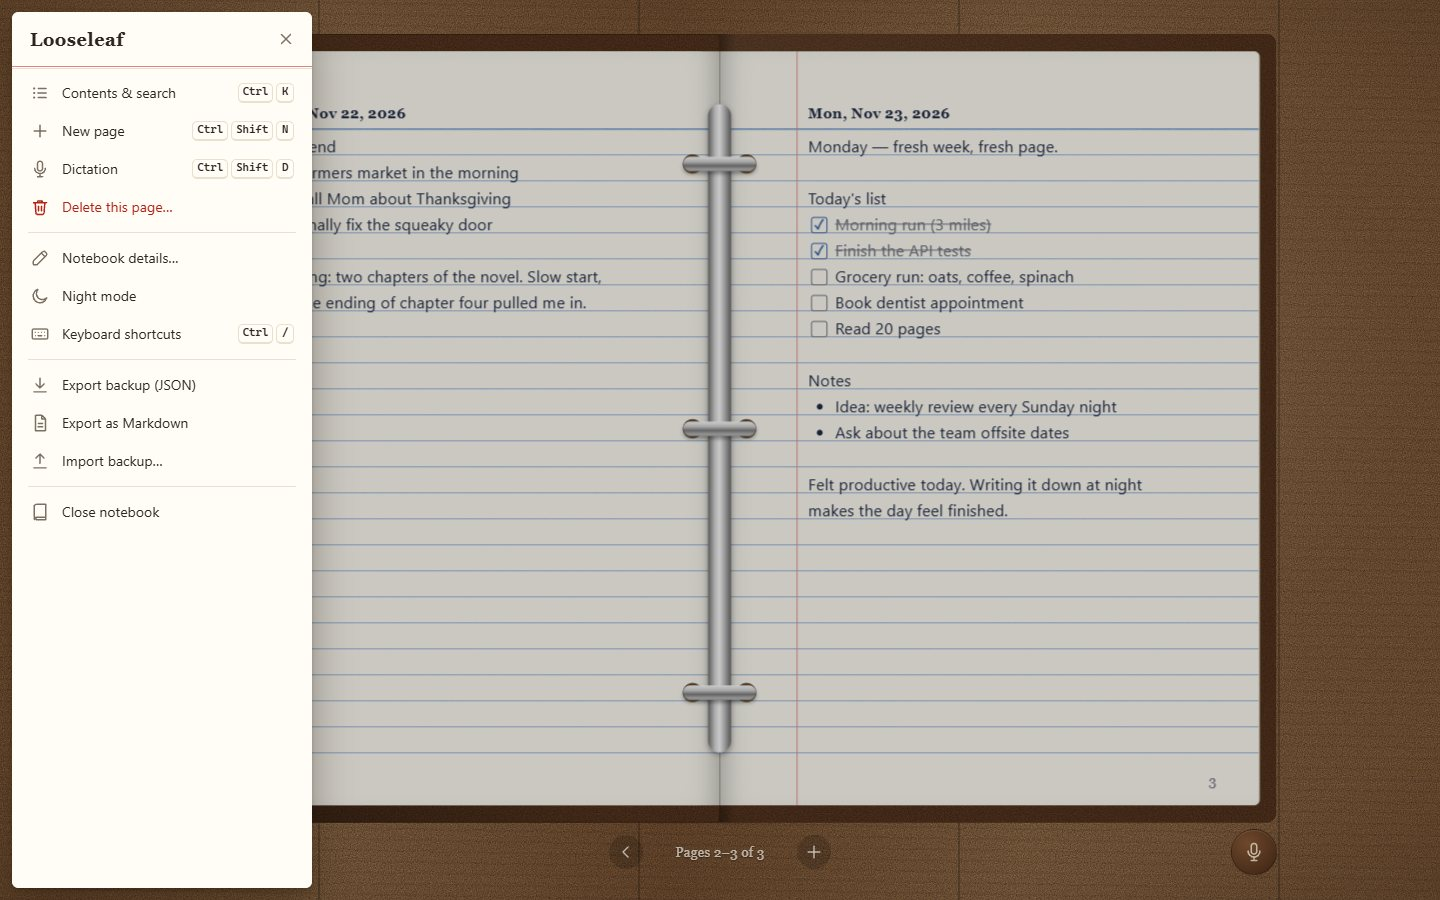
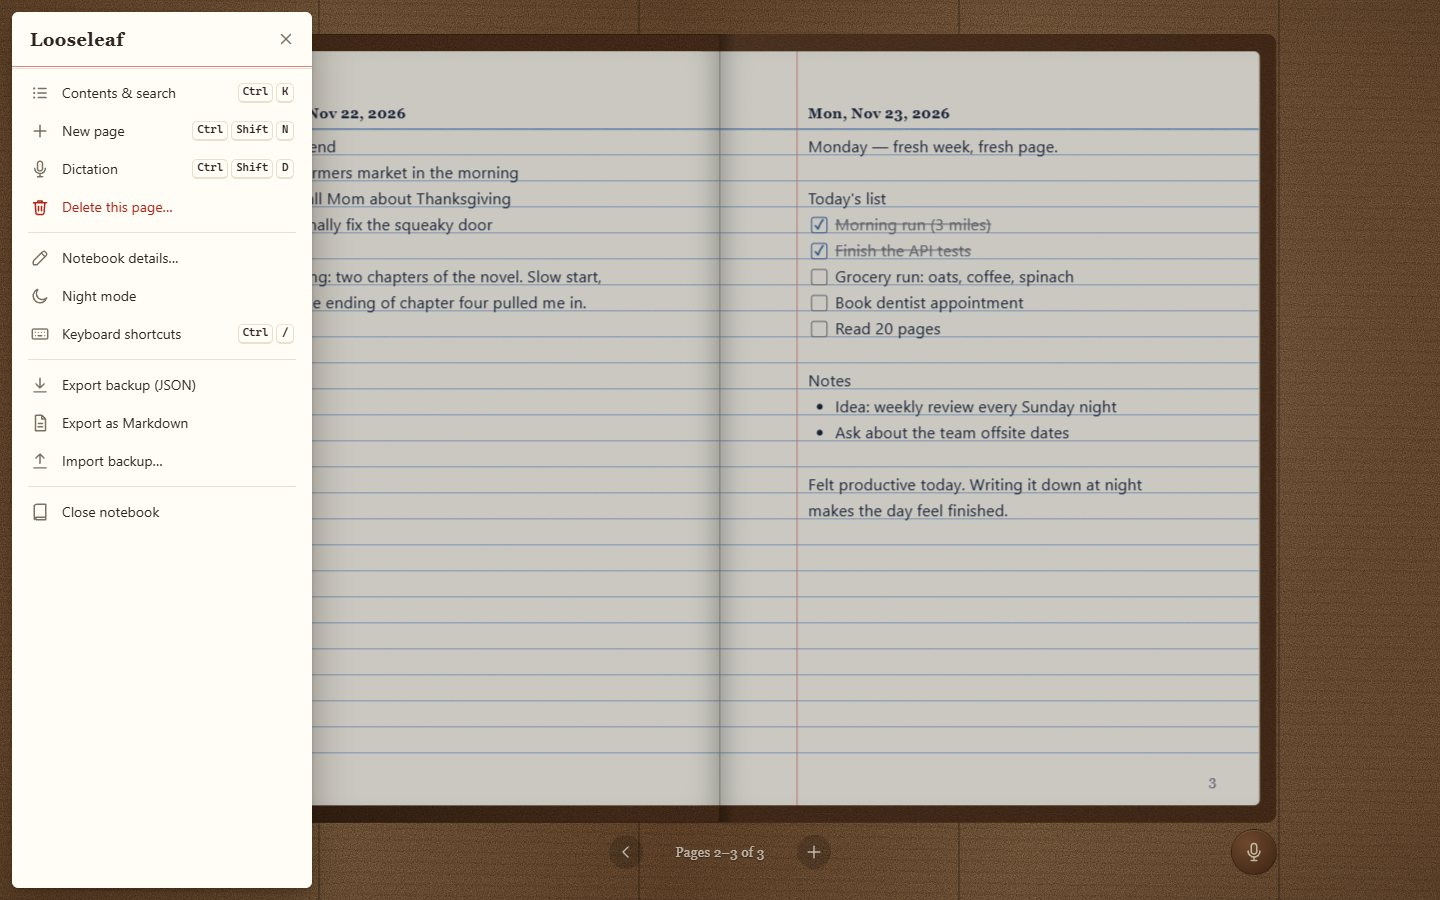
Remove binder rings and punch holes; license to Jay Kim
The metal spine read as bulky between the pages; the spread now meets at a
soft gutter shadow like a bound notebook. Screenshots regenerated.

Changed region(s): [[0.4688, 0.1244, 0.5312, 0.84]]

diff --git a/public/css/book.css b/public/css/book.css
@@ -74,45 +74,6 @@
 .book[data-mode="single"] .slot[data-pos="1"] { display: none; }
 .book[data-mode="double"]:is([data-state="closed"], [data-state="opening"], [data-state="closing"]) .slot[data-pos="0"] { opacity: 0; }
 
-/* ---------- Binder rings ---------- */
-.rings {
-  position: absolute;
-  top: 0;
-  bottom: 0;
-  left: 50%;
-  width: 0;
-  z-index: 4;
-  pointer-events: none;
-  filter: brightness(var(--metal));
-  transition: opacity .3s ease;
-}
-.rings::before {                              /* the metal spine plate */
-  content: "";
-  position: absolute;
-  left: -12px;
-  width: 24px;
-  top: 7%;
-  bottom: 7%;
-  border-radius: 12px;
-  background: linear-gradient(90deg, #6f6f6f, #d9d9d9 30%, #fbfbfb 50%, #c4c4c4 70%, #6a6a6a);
-  box-shadow: 0 2px 6px rgb(0 0 0 / .35);
-}
-.rings span {
-  position: absolute;
-  left: -38px;
-  width: 76px;
-  height: 15px;
-  border-radius: 8px;
-  transform: translateY(-50%);
-  background: linear-gradient(180deg, #ffffff, #cfcfcf 35%, #7d7d7d 62%, #d8d8d8);
-  box-shadow: 0 3px 4px rgb(0 0 0 / .35), inset 0 -1px 1px rgb(0 0 0 / .3);
-}
-.rings span:nth-child(1) { top: 15%; }
-.rings span:nth-child(2) { top: 50%; }
-.rings span:nth-child(3) { top: 85%; }
-.book[data-mode="single"] .rings,
-.book:is([data-state="closed"], [data-state="opening"], [data-state="closing"]) .rings { opacity: 0; }
-
 /* ---------- Paper ---------- */
 .page {
   position: absolute;
@@ -146,21 +107,6 @@
   opacity: .9;
   pointer-events: none;
 }
-
-.holes span {
-  position: absolute;
-  width: 20px;
-  height: 20px;
-  border-radius: 50%;
-  transform: translateY(-50%);
-  background: var(--hole);
-  box-shadow: inset 1px 2px 3px rgb(0 0 0 / .45);
-}
-.holes span:nth-child(1) { top: 15%; }
-.holes span:nth-child(2) { top: 50%; }
-.holes span:nth-child(3) { top: 85%; }
-.page.left .holes span { right: 18px; }
-.page:is(.right, .single) .holes span { left: 18px; }
 
 .page-head {
   position: absolute;

diff --git a/public/css/base.css b/public/css/base.css
@@ -32,8 +32,6 @@
   --rule-color: #a9c4e4;
   --rule-strong: #7fa6d6;
   --margin-color: #e3837f;
-  --hole: #8a6a4a;
-  --metal: 1;                  /* brightness of the binder rings */
 
   /* UI (notecards, menus) */
   --card: #fffdf6;
@@ -59,7 +57,7 @@
     --leather: #4f2f1b; --leather-dark: #2f1b0e; --stitch: rgb(214 186 140 / .45);
     --endpaper: #3a3329; --endpaper-ink: #cdbb9c;
     --paper: #2a2a2c; --paper-edge: #38383b; --ink: #e2e4ea; --ink-muted: #9aa0ab;
-    --rule-color: #3a4c66; --rule-strong: #4b6890; --margin-color: #8e4c4c; --hole: #1d140c; --metal: .62;
+    --rule-color: #3a4c66; --rule-strong: #4b6890; --margin-color: #8e4c4c;
     --card: #2b2824; --card-ink: #ece5d8; --card-muted: #a59a8a; --card-line: #3d3832;
     --accent: #8fb5ef; --hover: rgb(255 240 220 / .07); --hl: rgb(255 200 0 / .35); --danger: #f97066;
     --shadow-lg: 0 2px 4px rgb(0 0 0 / .4), 0 18px 40px rgb(0 0 0 / .6);
@@ -72,7 +70,7 @@
   --leather: #4f2f1b; --leather-dark: #2f1b0e; --stitch: rgb(214 186 140 / .45);
   --endpaper: #3a3329; --endpaper-ink: #cdbb9c;
   --paper: #2a2a2c; --paper-edge: #38383b; --ink: #e2e4ea; --ink-muted: #9aa0ab;
-  --rule-color: #3a4c66; --rule-strong: #4b6890; --margin-color: #8e4c4c; --hole: #1d140c; --metal: .62;
+  --rule-color: #3a4c66; --rule-strong: #4b6890; --margin-color: #8e4c4c;
   --card: #2b2824; --card-ink: #ece5d8; --card-muted: #a59a8a; --card-line: #3d3832;
   --accent: #8fb5ef; --hover: rgb(255 240 220 / .07); --hl: rgb(255 200 0 / .35); --danger: #f97066;
   --shadow-lg: 0 2px 4px rgb(0 0 0 / .4), 0 18px 40px rgb(0 0 0 / .6);

diff --git a/public/index.html b/public/index.html
@@ -31,7 +31,6 @@
                 <div class="leaf-face leaf-front"></div>
                 <div class="leaf-face leaf-back"></div>
               </div>
-              <div class="rings" aria-hidden="true"><span></span><span></span><span></span></div>
             </div>
 
             <div class="cover">
@@ -169,7 +168,6 @@
   <!-- Page markup cloned for each visible page -->
   <template id="page-template">
     <section class="page">
-      <div class="holes" aria-hidden="true"><span></span><span></span><span></span></div>
       <header class="page-head">
         <button class="page-date" type="button" title="Change date"></button>
         <input class="page-date-input" type="date" tabindex="-1" aria-hidden="true">

diff --git a/README.md b/README.md
@@ -1,12 +1,12 @@
 # Looseleaf
 
-A private journal that looks and feels like a **leather ring binder full of college-ruled paper**. Open the cover and write, check off to-dos, turn pages, and keep adding sheets.
+A private journal that looks and feels like a **leather-bound notebook full of college-ruled paper**. Open the cover and write, check off to-dos, turn pages, and keep adding sheets.
 It runs entirely on your own computer, with **zero dependencies**: just Node.js and a browser.
 
 <table>
   <tr>
     <td><img src="docs/cover-day.jpg" alt="Closed leather cover with a debossed title"></td>
-    <td><img src="docs/spread-day.jpg" alt="Open binder showing two ruled pages with a checklist"></td>
+    <td><img src="docs/spread-day.jpg" alt="Open notebook showing two ruled pages with a checklist"></td>
   </tr>
   <tr>
     <td><img src="docs/menu.jpg" alt="Slide-out menu with icons and shortcut hints"></td>
@@ -46,10 +46,10 @@ Press <kbd>Ctrl</kbd>+<kbd>/</kbd> (or <kbd>?</kbd>) in the app to see these on 
 
 - **A notebook, not a web page.**
   - A leather cover with a debossed title, stitching, and an elastic band swings open onto a two-page spread.
-  - Pages hang on binder rings, over a wooden desk.
-  - Turning a page animates the sheet over the rings. You can also click a page's dog-eared corner.
+  - The notebook rests on a wooden desk.
+  - Turning a page animates the sheet across the spread. You can also click a page's dog-eared corner.
 - **College-ruled paper.**
-  - 9/32" line spacing, a red margin, and hole punches.
+  - 9/32" line spacing, and a red margin.
   - Text, including wrapped lines, always sits exactly on the rules.
   - The book scales to fit any window, snapped so the rules stay crisp, and switches to single-page mode in narrow windows.
 - **Pages that fill up.** Each A5 sheet holds 24 lines. Type past the bottom and the overflow, even mid-paragraph at a word boundary, moves to the next page. The book turns and your cursor follows.
@@ -92,7 +92,7 @@ public/                Vanilla JS front end (ES modules, no build step)
   js/dictation.js      Web Speech API wrapper and "new line" commands
   js/api.js            The only module that talks to storage (swap point for sync)
   css/base.css         Design tokens, day/night themes, desk
-  css/book.css         Cover, paper, ruling, rings, page turn
+  css/book.css         Cover, paper, ruling, page turn
   css/ui.css           Menu, dialogs, mic, status
   img/icons.svg        SVG icon sprite
 server/
